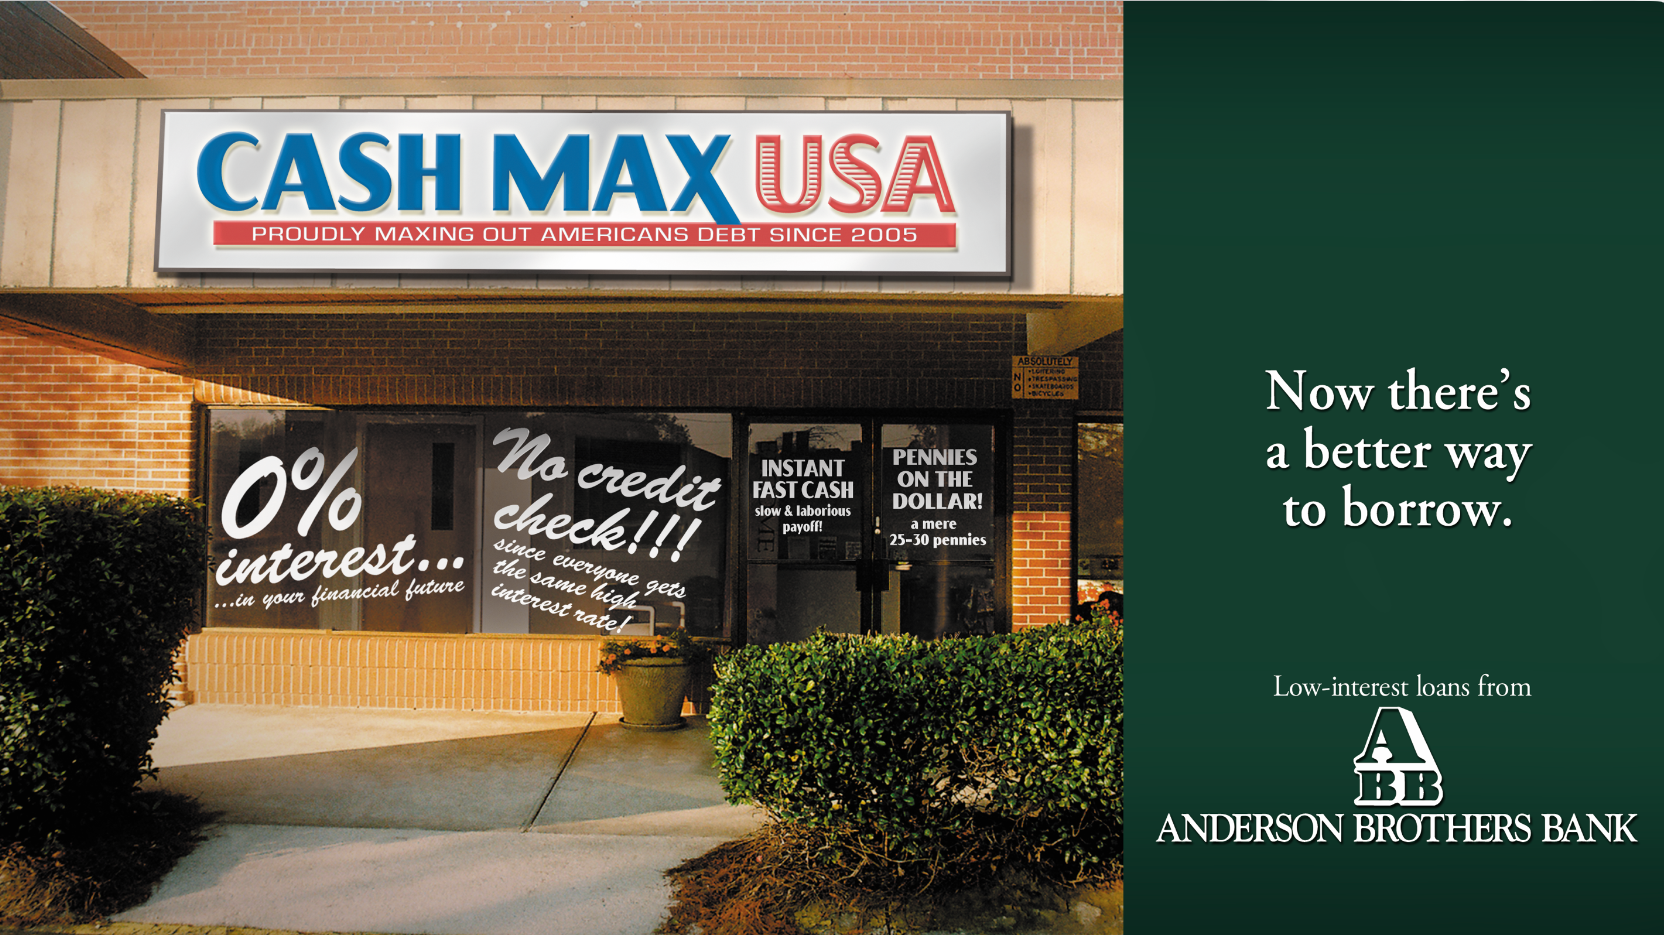
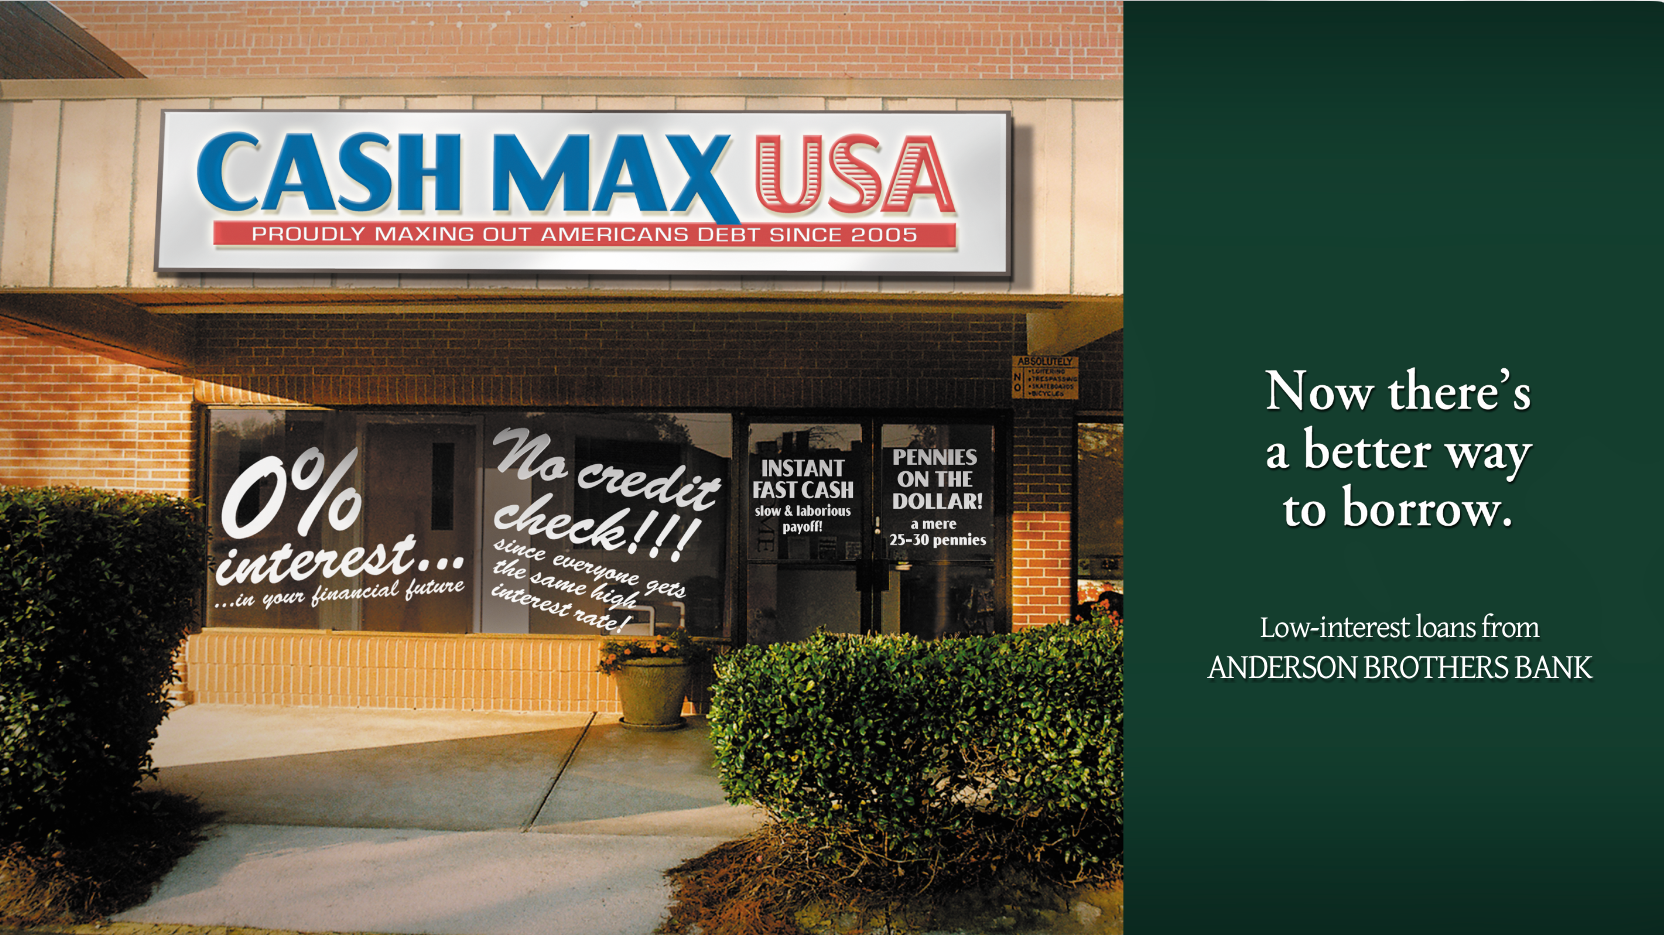
Replace Anderson Brothers Bank artwork; force IMAX line break before "a 55"
- New Cash Max + Credit Cards visuals for the ABB campaign on
  campaigns.html. Same filenames so no markup change needed.
- IMAX paragraph: hard <br> inserted before "a 55" on both the
  homepage and campaigns IMAX section so the line wrap reads
  cleanly.

Changed region(s): [[0.6875, 0.6513, 1.0, 0.8995]]

diff --git a/index.html b/index.html
@@ -1174,7 +1174,7 @@
           <div class="project__copy">
             <h3>IMAX</h3>
             <h2 style="margin-left: -2px;">No Substitute</h2>
-            <p style="max-width: 60%;">With attendance down, IMAX needed a high-impact message to remind everyone a 55" TV in their living room is no substitute for an IMAX Experience.</p>
+            <p style="max-width: 60%;">With attendance down, IMAX needed a high-impact message to remind everyone<br>a 55" TV in their living room is no substitute for an IMAX Experience.</p>
           </div>
           <div class="project__gallery-row" style="align-items: stretch; gap: 0.5rem;">
             <div style="aspect-ratio: 354 / 458; overflow: hidden; border-radius: 12px;"><img src="images/work/imax_1.png" alt="IMAX 1" style="width: 100%; height: 100%; object-fit: cover; display: block;"></div>

diff --git a/campaigns.html b/campaigns.html
@@ -1109,7 +1109,7 @@
           <div class="project__copy">
             <h3>IMAX</h3>
             <h2>No Substitute</h2>
-            <p style="max-width: 60%;">With attendance down, IMAX needed a high-impact message to remind everyone a 55" TV in their living room is no substitute for an IMAX Experience.</p>
+            <p style="max-width: 60%;">With attendance down, IMAX needed a high-impact message to remind everyone<br>a 55" TV in their living room is no substitute for an IMAX Experience.</p>
           </div>
           <div class="project__gallery-row" style="align-items: stretch; gap: 0.5rem;">
             <div style="aspect-ratio: 354 / 458; overflow: hidden; border-radius: 12px;"><img src="images/work/imax_1.png" alt="IMAX 1" style="width: 100%; height: 100%; object-fit: cover; display: block;"></div>
